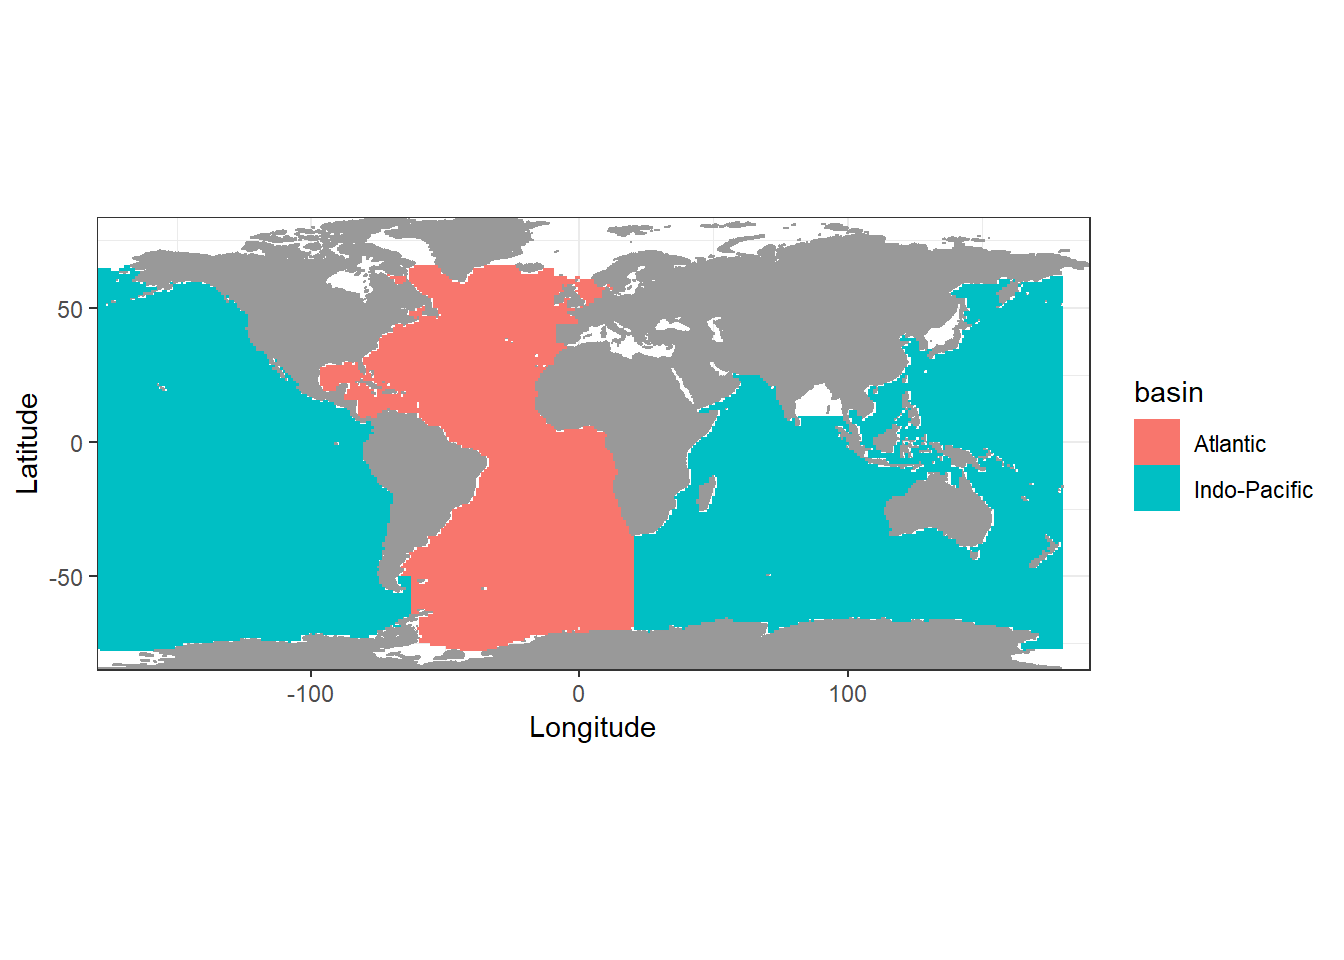
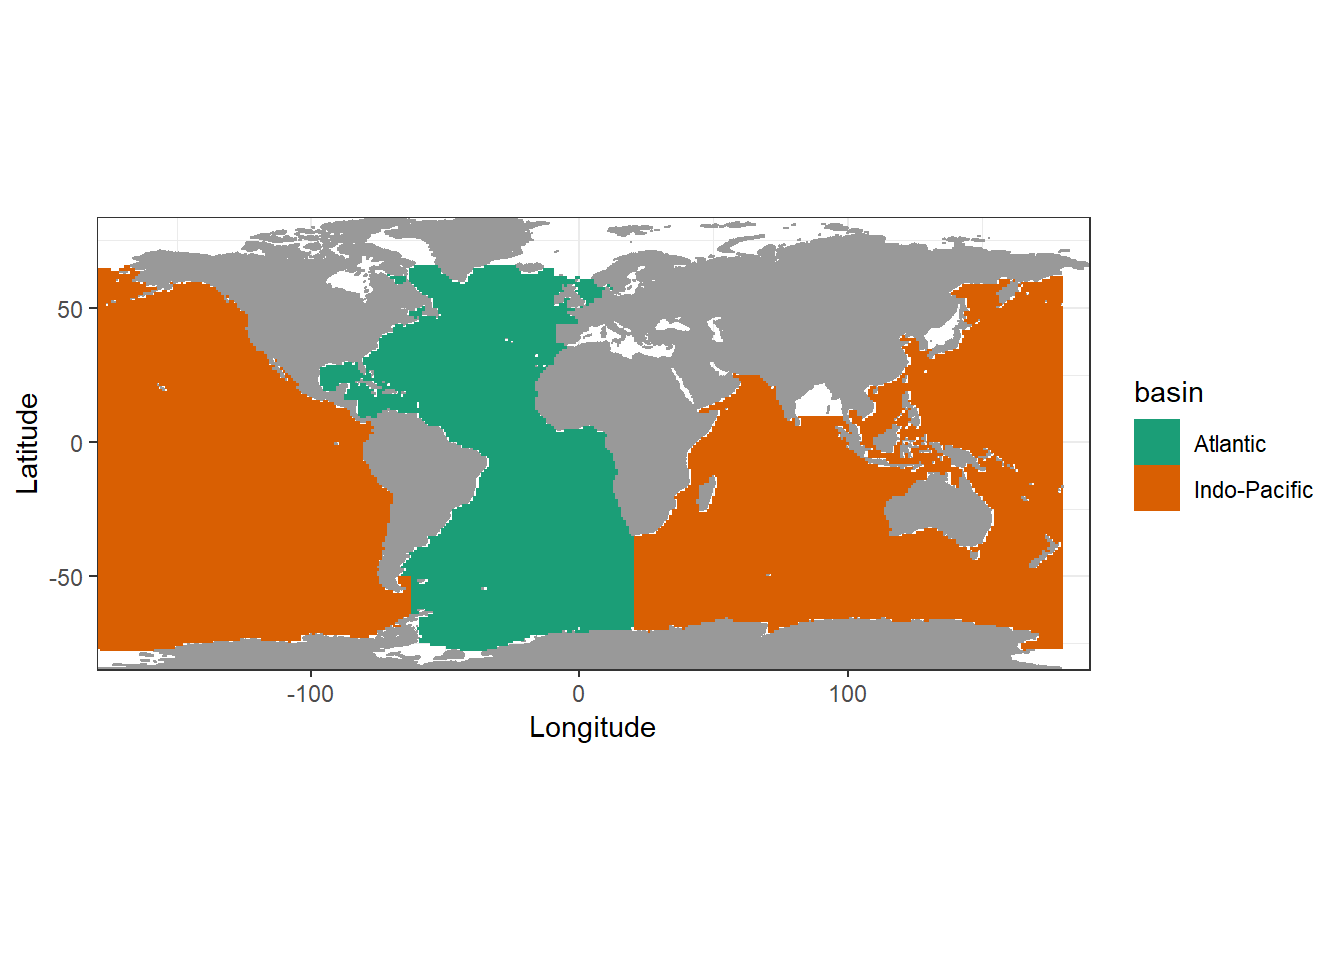
Build site.

Changed region(s): [[0.0625, 0.2812, 0.8125, 0.6875], [0.8438, 0.4375, 0.875, 0.5312]]

diff --git a/docs/read_World_Ocean_Atlas_2018.html b/docs/read_World_Ocean_Atlas_2018.html
@@ -437,7 +437,7 @@ div.tocify {
 
 <p>
 <button type="button" class="btn btn-default btn-workflowr btn-workflowr-report" data-toggle="collapse" data-target="#workflowr-report">
-<span class="glyphicon glyphicon-list" aria-hidden="true"></span> workflowr <span class="glyphicon glyphicon-ok text-success" aria-hidden="true"></span>
+<span class="glyphicon glyphicon-list" aria-hidden="true"></span> workflowr <span class="glyphicon glyphicon-exclamation-sign text-danger" aria-hidden="true"></span>
 </button>
 </p>
 <div id="workflowr-report" class="collapse">
@@ -446,7 +446,7 @@ div.tocify {
 <a data-toggle="tab" href="#summary">Summary</a>
 </li>
 <li>
-<a data-toggle="tab" href="#checks"> Checks <span class="glyphicon glyphicon-ok text-success" aria-hidden="true"></span> </a>
+<a data-toggle="tab" href="#checks"> Checks <span class="glyphicon glyphicon-exclamation-sign text-danger" aria-hidden="true"></span> </a>
 </li>
 <li>
 <a data-toggle="tab" href="#versions">Past versions</a>
@@ -458,7 +458,7 @@ div.tocify {
 <strong>Last updated:</strong> 2020-07-20
 </p>
 <p>
-<strong>Checks:</strong> <span class="glyphicon glyphicon-ok text-success" aria-hidden="true"></span> 7 <span class="glyphicon glyphicon-exclamation-sign text-danger" aria-hidden="true"></span> 0
+<strong>Checks:</strong> <span class="glyphicon glyphicon-ok text-success" aria-hidden="true"></span> 6 <span class="glyphicon glyphicon-exclamation-sign text-danger" aria-hidden="true"></span> 1
 </p>
 <p>
 <strong>Knit directory:</strong> <code>Cant_eMLR/</code> <span class="glyphicon glyphicon-question-sign" aria-hidden="true" title="This is the local directory in which the code in this file was executed."> </span>
@@ -474,12 +474,12 @@ This reproducible <a href="http://rmarkdown.rstudio.com">R Markdown</a> analysis
 <div class="panel panel-default">
 <div class="panel-heading">
 <p class="panel-title">
-<a data-toggle="collapse" data-parent="#workflowr-checks" href="#strongRMarkdownfilestronguptodate"> <span class="glyphicon glyphicon-ok text-success" aria-hidden="true"></span> <strong>R Markdown file:</strong> up-to-date </a>
+<a data-toggle="collapse" data-parent="#workflowr-checks" href="#strongRMarkdownfilestronguncommittedchanges"> <span class="glyphicon glyphicon-exclamation-sign text-danger" aria-hidden="true"></span> <strong>R Markdown file:</strong> uncommitted changes </a>
 </p>
 </div>
-<div id="strongRMarkdownfilestronguptodate" class="panel-collapse collapse">
+<div id="strongRMarkdownfilestronguncommittedchanges" class="panel-collapse collapse">
 <div class="panel-body">
-<p>Great! Since the R Markdown file has been committed to the Git repository, you know the exact version of the code that produced these results.</p>
+<p>The R Markdown file has unstaged changes. To know which version of the R Markdown file created these results, you’ll want to first commit it to the Git repo. If you’re still working on the analysis, you can ignore this warning. When you’re finished, you can run <code>wflow_publish</code> to commit the R Markdown file and build the HTML.</p>
 </div>
 </div>
 </div>
@@ -546,16 +546,16 @@ This reproducible <a href="http://rmarkdown.rstudio.com">R Markdown</a> analysis
 <div class="panel panel-default">
 <div class="panel-heading">
 <p class="panel-title">
-<a data-toggle="collapse" data-parent="#workflowr-checks" href="#strongRepositoryversionstrongahrefhttpsgithubcomjensdanielmuellerCanteMLRtree68e46156bf9f3cf009fe50481260e26316a7f110targetblank68e4615a"> <span class="glyphicon glyphicon-ok text-success" aria-hidden="true"></span> <strong>Repository version:</strong> <a href="https://github.com/jens-daniel-mueller/Cant_eMLR/tree/68e46156bf9f3cf009fe50481260e26316a7f110" target="_blank">68e4615</a> </a>
+<a data-toggle="collapse" data-parent="#workflowr-checks" href="#strongRepositoryversionstrongahrefhttpsgithubcomjensdanielmuellerCanteMLRtree366d7d5c1bb69ff7e337faedb252a063b7262275targetblank366d7d5a"> <span class="glyphicon glyphicon-ok text-success" aria-hidden="true"></span> <strong>Repository version:</strong> <a href="https://github.com/jens-daniel-mueller/Cant_eMLR/tree/366d7d5c1bb69ff7e337faedb252a063b7262275" target="_blank">366d7d5</a> </a>
 </p>
 </div>
[2 lines of base64/hex data omitted]
 <div class="panel-body">
 <p>
 Great! You are using Git for version control. Tracking code development and connecting the code version to the results is critical for reproducibility.
 </p>
 <p>
-The results in this page were generated with repository version <a href="https://github.com/jens-daniel-mueller/Cant_eMLR/tree/68e46156bf9f3cf009fe50481260e26316a7f110" target="_blank">68e4615</a>. See the <em>Past versions</em> tab to see a history of the changes made to the R Markdown and HTML files.
+The results in this page were generated with repository version <a href="https://github.com/jens-daniel-mueller/Cant_eMLR/tree/366d7d5c1bb69ff7e337faedb252a063b7262275" target="_blank">366d7d5</a>. See the <em>Past versions</em> tab to see a history of the changes made to the R Markdown and HTML files.
 </p>
 <p>
 Note that you need to be careful to ensure that all relevant files for the analysis have been committed to Git prior to generating the results (you can use <code>wflow_publish</code> or <code>wflow_git_commit</code>). workflowr only checks the R Markdown file, but you know if there are other scripts or data files that it depends on. Below is the status of the Git repository when the results were generated:
@@ -569,6 +569,9 @@ Ignored files:
     Ignored:    data/pCO2_atmosphere/
     Ignored:    dump/
     Ignored:    output/plots/
+
+Unstaged changes:
+    Modified:   analysis/read_World_Ocean_Atlas_2018.Rmd
 
 </code></pre>
 <p>
@@ -607,6 +610,40 @@ Message
 </tr>
 </thead>
 <tbody>
+<tr>
+<td>
+Rmd
+</td>
+<td>
+<a href="https://github.com/jens-daniel-mueller/Cant_eMLR/blob/366d7d5c1bb69ff7e337faedb252a063b7262275/analysis/read_World_Ocean_Atlas_2018.Rmd" target="_blank">366d7d5</a>
+</td>
+<td>
+jens-daniel-mueller
+</td>
+<td>
+2020-07-20
+</td>
+<td>
+update plots
+</td>
+</tr>
+<tr>
+<td>
+html
+</td>
+<td>
+<a href="https://rawcdn.githack.com/jens-daniel-mueller/Cant_eMLR/1de1bc05336872ab4be4ca9492b9dafdd8de83bd/docs/read_World_Ocean_Atlas_2018.html" target="_blank">1de1bc0</a>
+</td>
+<td>
+jens-daniel-mueller
+</td>
+<td>
+2020-07-20
+</td>
+<td>
+Build site.
+</td>
+</tr>
 <tr>
 <td>
 Rmd
@@ -798,7 +835,7 @@ basinmask_01 &lt;- basinmask_01 %&gt;%
 <li>2: Pacific Ocean (with 10 - Southern Ocean, between 147°E and 63°W)</li>
 <li>3: Indian Ocean (with 10 - Southern Ocean, between 20°E and 147°E)</li>
 </ul>
-<p>From this, the Atlantik and the Indo-Pcific were labeled.</p>
+<p>From this, the Atlantik and the Indo-Pacific were labeled.</p>
 <pre class="r"><code>basinmask_01 &lt;- basinmask_01 %&gt;% 
   filter(Basin_0m %in% c(&quot;1&quot;, &quot;2&quot;, &quot;3&quot;, &quot;10&quot;)) %&gt;% 
   mutate(basin = if_else(Basin_0m == &quot;10&quot; &amp; Longitude &gt;= -63 &amp; Longitude &lt; 20,
@@ -815,6 +852,7 @@ basinmask_01 %&gt;%
   ggplot(aes(Longitude, Latitude, fill=basin))+
   mapWorld+
   geom_raster()+
+  scale_fill_brewer(palette = &quot;Dark2&quot;)+
   coord_quickmap(expand = 0)</code></pre>
 <p><img src="figure/read_World_Ocean_Atlas_2018.Rmd/map_basin_mask_WOA-1.png" width="672" style="display: block; margin: auto;" /></p>
 </div>
@@ -933,10 +971,10 @@ loaded via a namespace (and not attached):
 [45] rstudioapi_0.11    munsell_0.5.0      blob_1.2.1         httr_1.4.1        
 [49] tools_3.6.3        grid_3.6.3         gtable_0.3.0       KernSmooth_2.23-16
 [53] DBI_1.1.0          cli_2.0.2          readxl_1.3.1       yaml_2.2.1        
-[57] lwgeom_0.2-5       crayon_1.3.4       farver_2.0.3       later_1.1.0.1     
-[61] promises_1.1.1     fs_1.4.2           vctrs_0.3.1        ncdf4_1.17        
-[65] glue_1.4.1         evaluate_0.14      labeling_0.3       reprex_0.3.0      
-[69] stringi_1.4.6     </code></pre>
+[57] lwgeom_0.2-5       crayon_1.3.4       farver_2.0.3       RColorBrewer_1.1-2
+[61] later_1.1.0.1      promises_1.1.1     fs_1.4.2           vctrs_0.3.1       
+[65] ncdf4_1.17         glue_1.4.1         evaluate_0.14      labeling_0.3      
+[69] reprex_0.3.0       stringi_1.4.6     </code></pre>
 </div>
 </div>
 

diff --git a/docs/read_GLODAPv2_2020.html b/docs/read_GLODAPv2_2020.html
@@ -546,16 +546,16 @@ This reproducible <a href="http://rmarkdown.rstudio.com">R Markdown</a> analysis
 <div class="panel panel-default">
 <div class="panel-heading">
 <p class="panel-title">
-<a data-toggle="collapse" data-parent="#workflowr-checks" href="#strongRepositoryversionstrongahrefhttpsgithubcomjensdanielmuellerCanteMLRtreee45a882e8024bed2318122792d74ef6b4697a13btargetblanke45a882a"> <span class="glyphicon glyphicon-ok text-success" aria-hidden="true"></span> <strong>Repository version:</strong> <a href="https://github.com/jens-daniel-mueller/Cant_eMLR/tree/e45a882e8024bed2318122792d74ef6b4697a13b" target="_blank">e45a882</a> </a>
+<a data-toggle="collapse" data-parent="#workflowr-checks" href="#strongRepositoryversionstrongahrefhttpsgithubcomjensdanielmuellerCanteMLRtree366d7d5c1bb69ff7e337faedb252a063b7262275targetblank366d7d5a"> <span class="glyphicon glyphicon-ok text-success" aria-hidden="true"></span> <strong>Repository version:</strong> <a href="https://github.com/jens-daniel-mueller/Cant_eMLR/tree/366d7d5c1bb69ff7e337faedb252a063b7262275" target="_blank">366d7d5</a> </a>
 </p>
 </div>
[2 lines of base64/hex data omitted]
 <div class="panel-body">
 <p>
 Great! You are using Git for version control. Tracking code development and connecting the code version to the results is critical for reproducibility.
 </p>
 <p>
-The results in this page were generated with repository version <a href="https://github.com/jens-daniel-mueller/Cant_eMLR/tree/e45a882e8024bed2318122792d74ef6b4697a13b" target="_blank">e45a882</a>. See the <em>Past versions</em> tab to see a history of the changes made to the R Markdown and HTML files.
+The results in this page were generated with repository version <a href="https://github.com/jens-daniel-mueller/Cant_eMLR/tree/366d7d5c1bb69ff7e337faedb252a063b7262275" target="_blank">366d7d5</a>. See the <em>Past versions</em> tab to see a history of the changes made to the R Markdown and HTML files.
 </p>
 <p>
 Note that you need to be careful to ensure that all relevant files for the analysis have been committed to Git prior to generating the results (you can use <code>wflow_publish</code> or <code>wflow_git_commit</code>). workflowr only checks the R Markdown file, but you know if there are other scripts or data files that it depends on. Below is the status of the Git repository when the results were generated:
@@ -607,6 +607,40 @@ Message
 </tr>
 </thead>
 <tbody>
+<tr>
+<td>
+Rmd
+</td>
+<td>
+<a href="https://github.com/jens-daniel-mueller/Cant_eMLR/blob/366d7d5c1bb69ff7e337faedb252a063b7262275/analysis/read_GLODAPv2_2020.Rmd" target="_blank">366d7d5</a>
+</td>
+<td>
+jens-daniel-mueller
+</td>
+<td>
+2020-07-20
+</td>
+<td>
+update plots
+</td>
+</tr>
+<tr>
+<td>
+html
+</td>
+<td>
+<a href="https://rawcdn.githack.com/jens-daniel-mueller/Cant_eMLR/25812b99907fb4d010b75eef1ebf5578be5b64e7/docs/read_GLODAPv2_2020.html" target="_blank">25812b9</a>
+</td>
+<td>
+jens-daniel-mueller
+</td>
+<td>
+2020-07-20
+</td>
+<td>
+Build site.
+</td>
+</tr>
 <tr>
 <td>
 Rmd
@@ -1244,7 +1278,7 @@ GLODAP_hovmoeller_year %&gt;%
   geom_tile()+
   geom_vline(xintercept = c(1999.5, 2012.5))+
   scale_fill_viridis_c(option = &quot;magma&quot;, direction = -1)+
-  facet_wrap(~basin)</code></pre>
+  facet_wrap(~basin, ncol=1)</code></pre>
 <p><img src="figure/read_GLODAPv2_2020.Rmd/coverage_hovmoeller-1.png" width="672" style="display: block; margin: auto;" /></p>
 <pre class="r"><code>rm(GLODAP_hovmoeller_year)</code></pre>
 </div>
